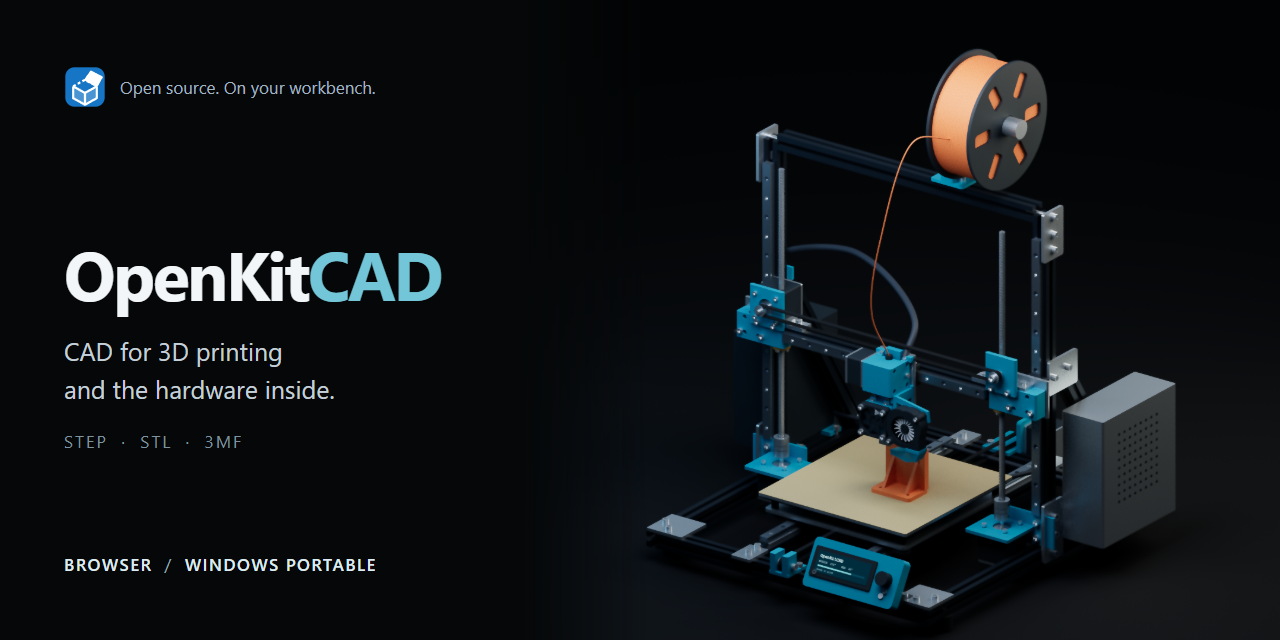
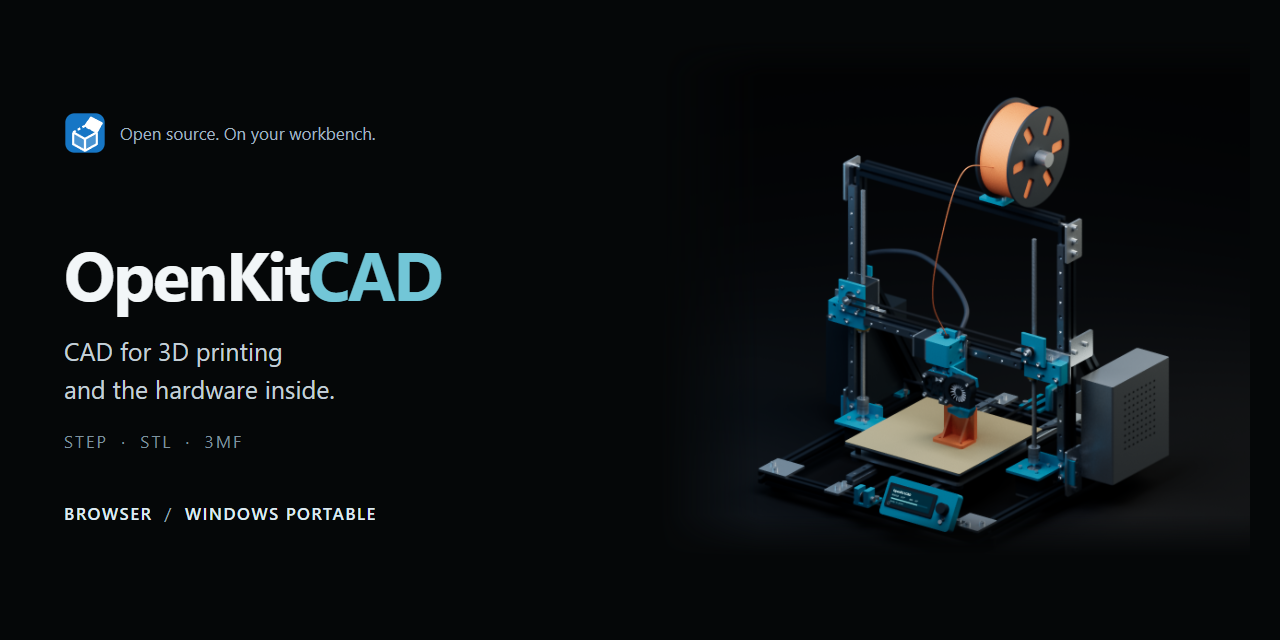
Keep the printer cover readable in GitHub topic cards

diff --git a/docs/social-preview.html b/docs/social-preview.html
@@ -24,16 +24,19 @@
     }
     .model {
       position: absolute;
-      left: 520px;
-      top: -25px;
-      width: 760px;
+      left: 660px;
+      top: 40px;
+      width: 590px;
       height: auto;
-      mask-image: linear-gradient(90deg, transparent, #000 17%);
+      mask-image:
+        linear-gradient(90deg, transparent, #000 17%),
+        linear-gradient(0deg, transparent, #000 8%, #000 93%, transparent);
+      mask-composite: intersect;
     }
     .mark {
       position: absolute;
       left: 64px;
-      top: 66px;
+      top: 112px;
       display: flex;
       align-items: center;
       gap: 14px;
@@ -70,7 +73,7 @@
     .platforms {
       position: absolute;
       left: 64px;
-      bottom: 65px;
+      bottom: 116px;
       font-size: 17px;
       color: #94a9b7;
       letter-spacing: 1.4px;
